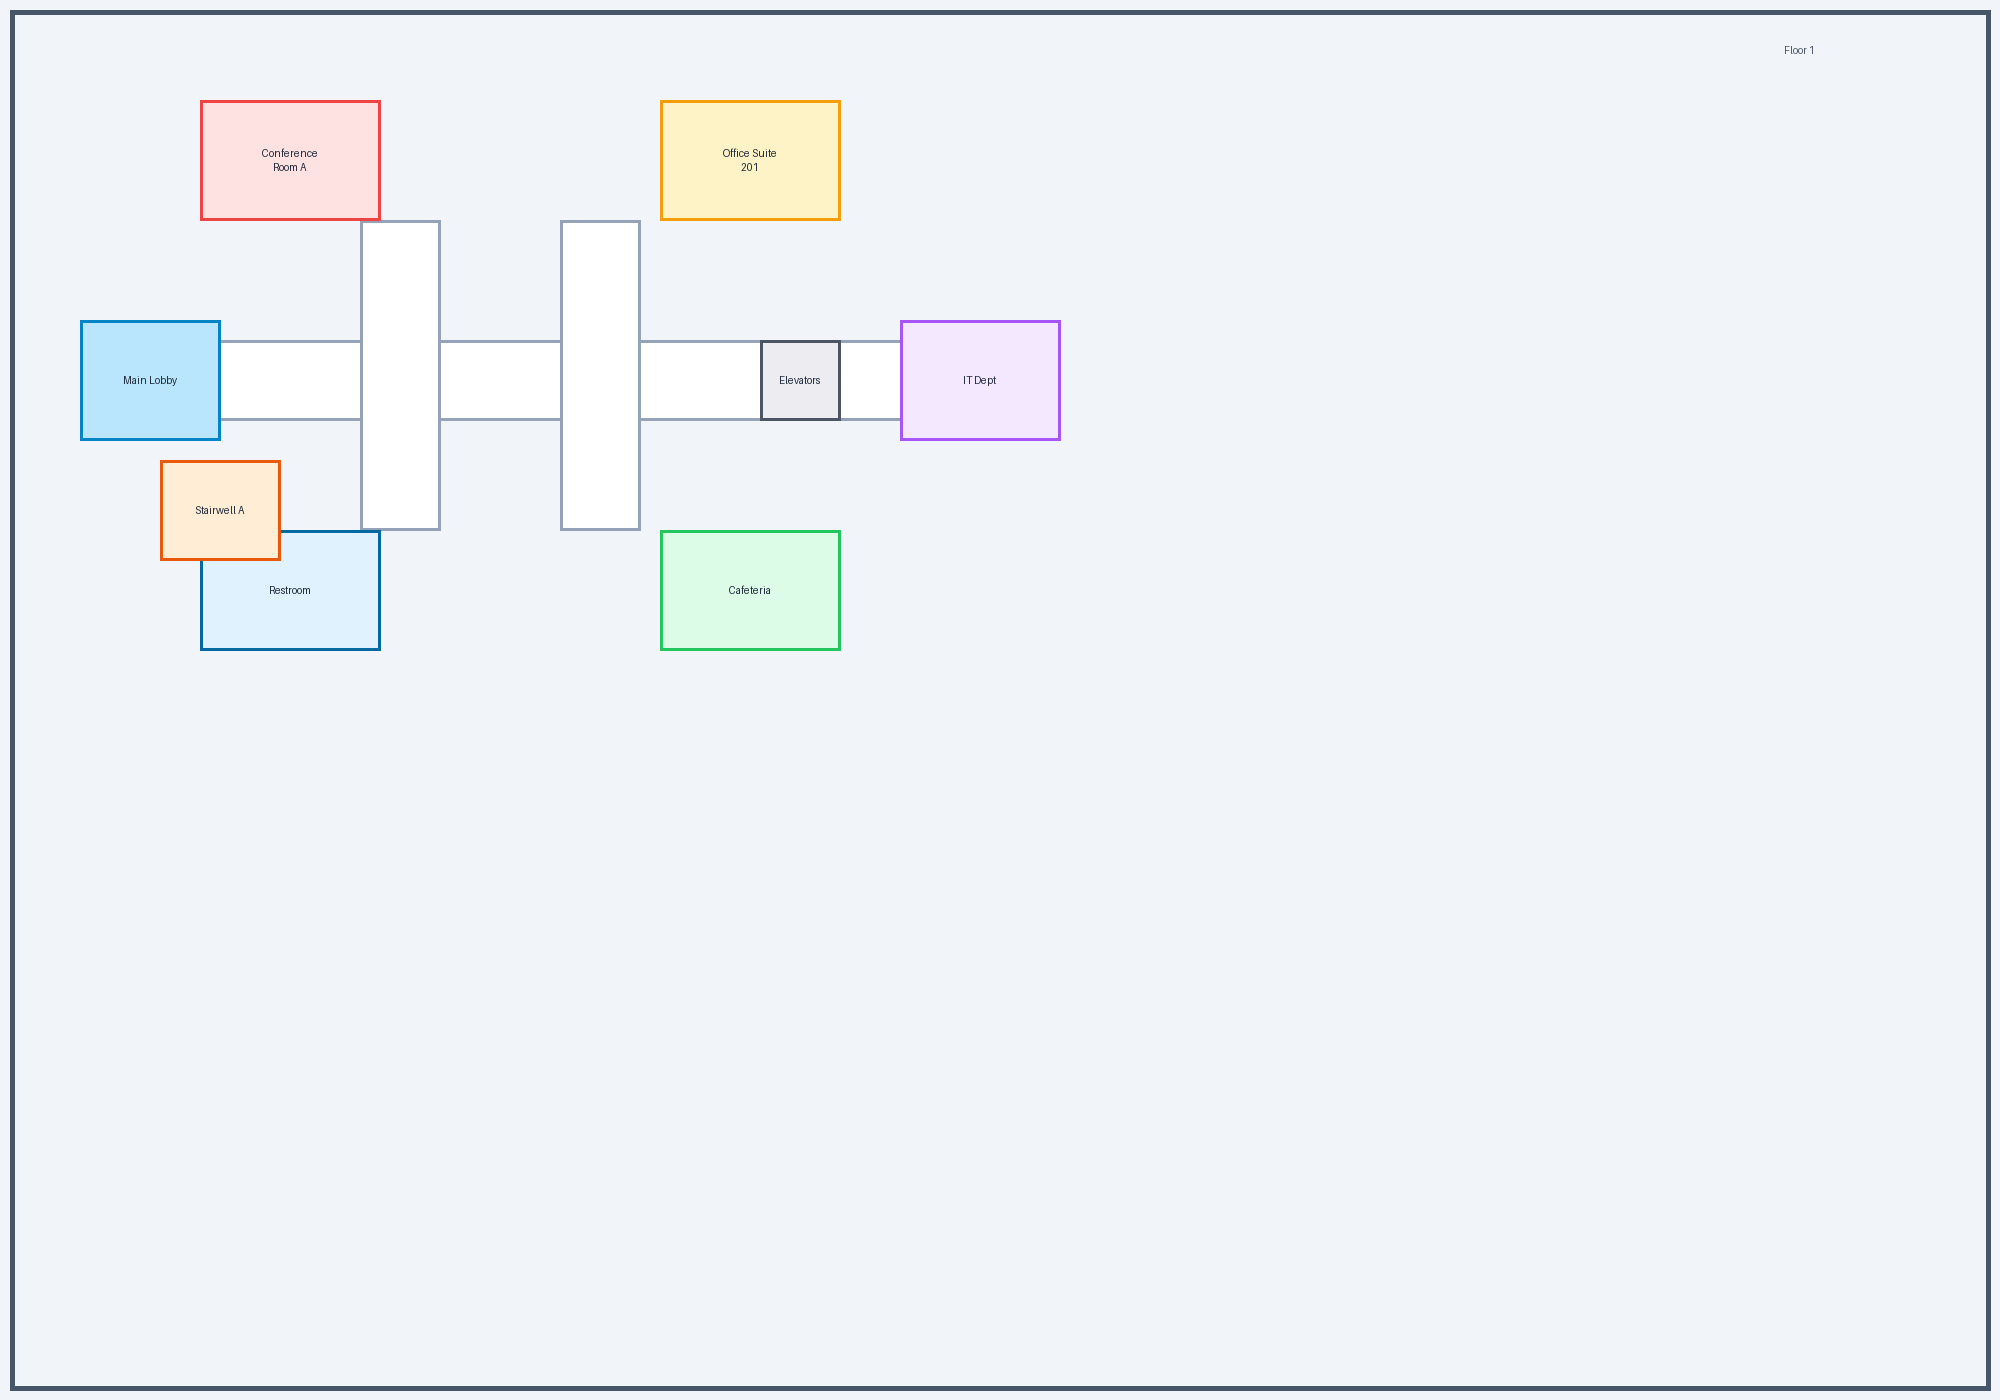
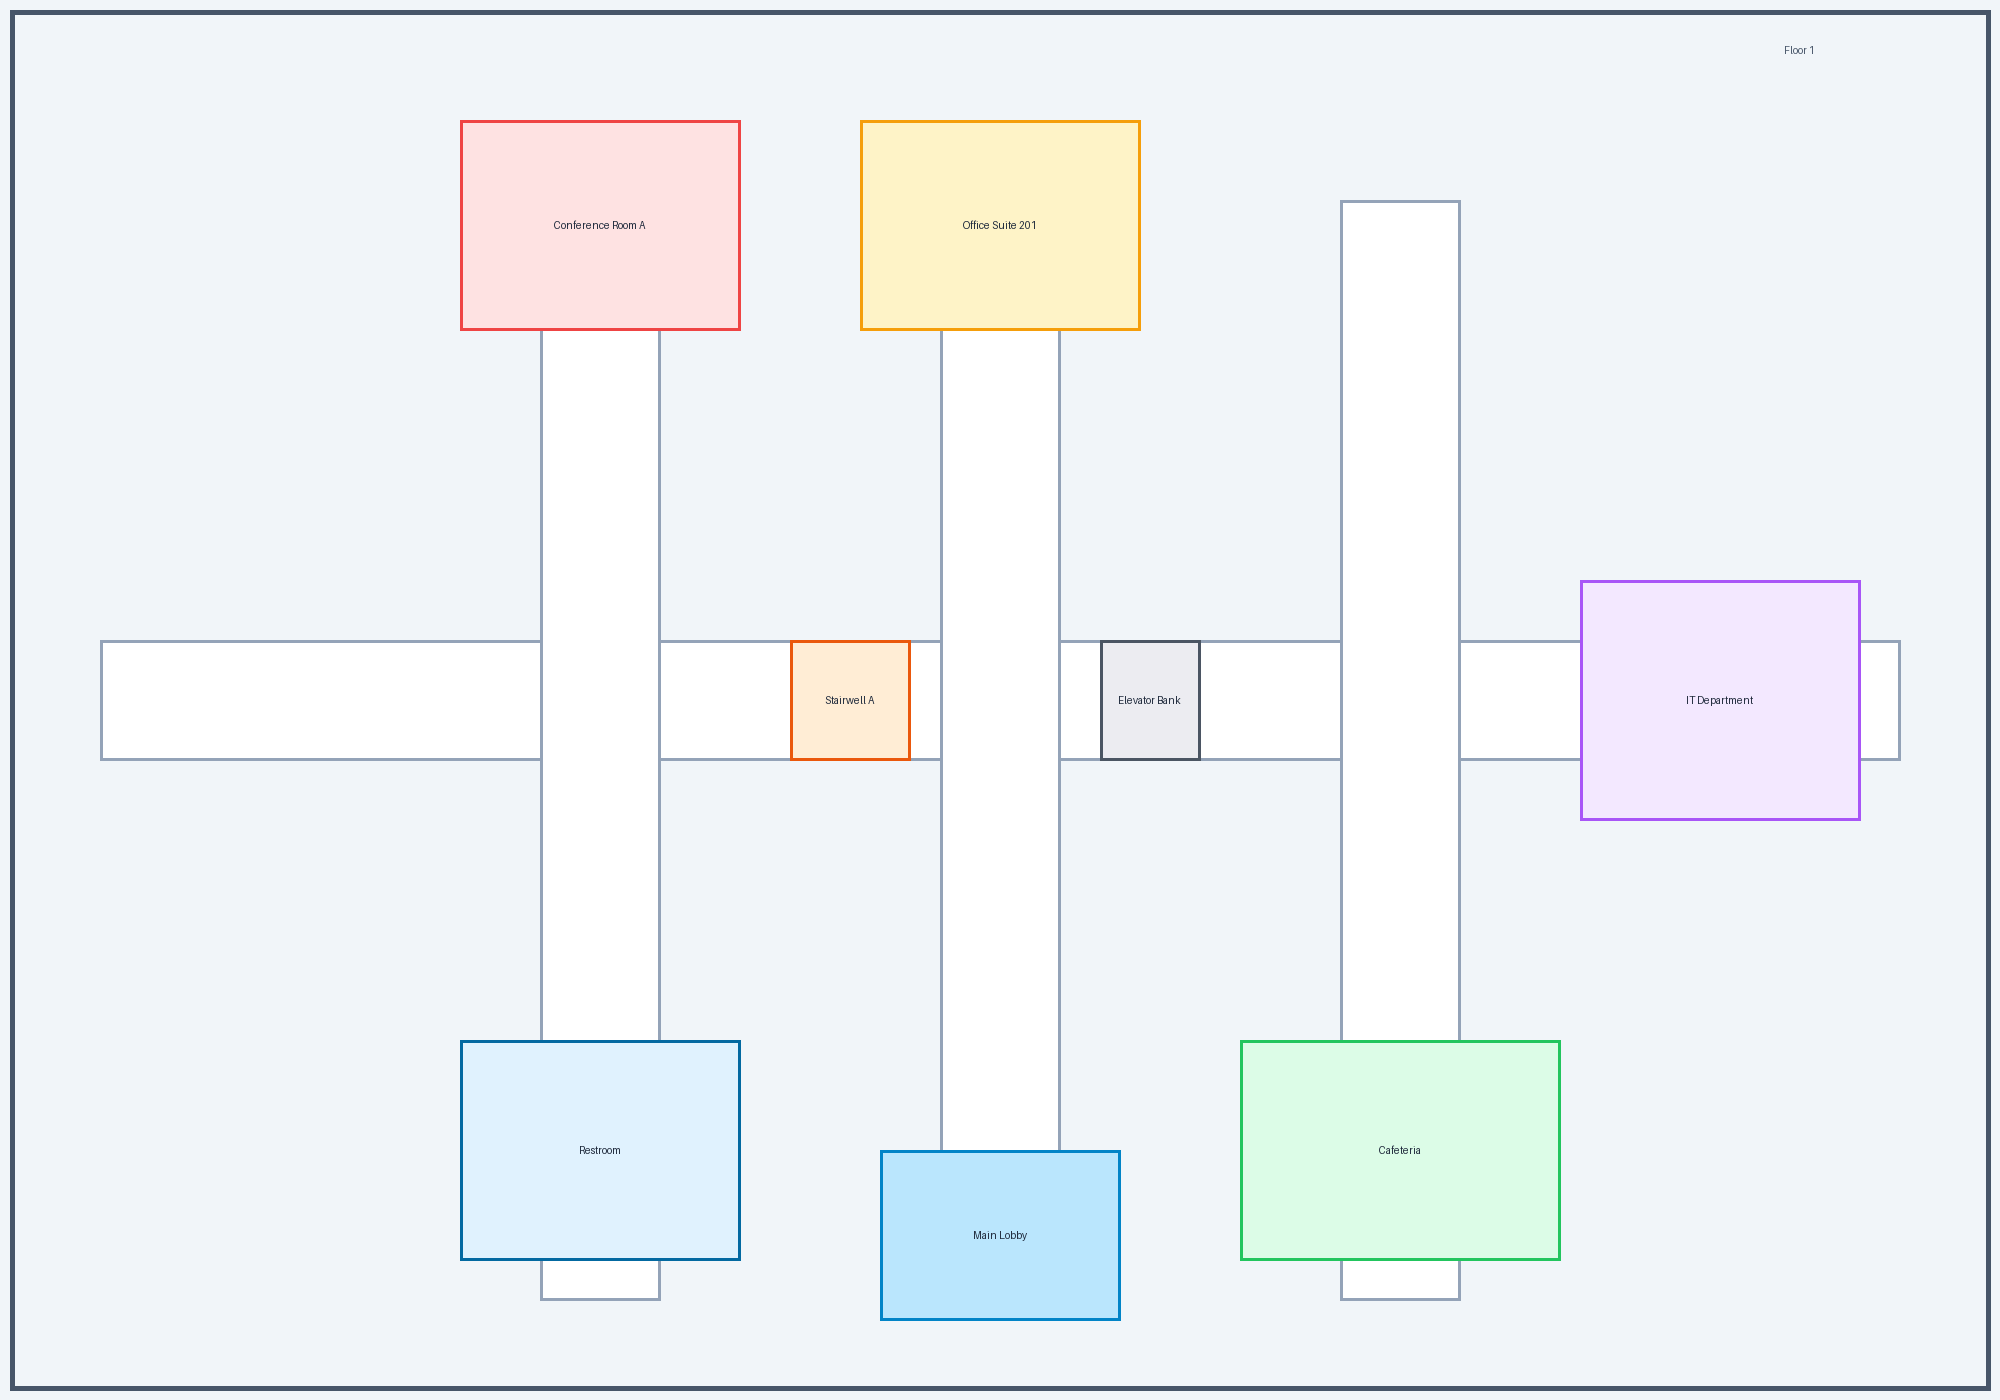
feat(svg): floormap loading via svg + geojson

diff --git a/backend/generate_floorplan.py b/backend/generate_floorplan.py
@@ -18,8 +18,9 @@ def _draw_room(draw, room, text_color):
 
 def generate_floor1():
     """Ground Floor — 2000×1400px.
-    Layout: main lobby at west, two vertical corridors, rooms on all sides.
+    Layout: main lobby center, vertical corridors, rooms on all sides.
     Connectors at east: elevator bank and stairwell.
+    Room boxes surround POI nodes as specified.
     """
     width, height = 2000, 1400
     corridor_color = "#FFFFFF"
@@ -29,25 +30,37 @@ def generate_floor1():
     img = Image.new("RGB", (width, height), "#F1F5F9")
     draw = ImageDraw.Draw(img)
 
-    # Horizontal corridor y=340-420
-    draw.rectangle([180, 340, 1020, 420], fill=corridor_color, outline=wall_color, width=3)
-    # Vertical corridor West x=360-440
-    draw.rectangle([360, 220, 440, 530], fill=corridor_color, outline=wall_color, width=3)
-    # Vertical corridor East x=560-640
-    draw.rectangle([560, 220, 640, 530], fill=corridor_color, outline=wall_color, width=3)
-    # Clean intersections
-    draw.rectangle([363, 343, 437, 417], fill=corridor_color)
-    draw.rectangle([563, 343, 637, 417], fill=corridor_color)
+    # Corridor fills
+    # Main east-west spine: y=640-760, x=100 to 1900
+    draw.rectangle([100, 640, 1900, 760], fill=corridor_color, outline=wall_color, width=3)
+    # West vertical corridor: x=540-660 (around x=600), y=200 to 1300
+    draw.rectangle([540, 200, 660, 1300], fill=corridor_color, outline=wall_color, width=3)
+    # Center vertical corridor: x=940-1060 (around x=1000), y=200 to 1300
+    draw.rectangle([940, 200, 1060, 1300], fill=corridor_color, outline=wall_color, width=3)
+    # East vertical corridor: x=1340-1460 (around x=1400), y=200 to 1300
+    draw.rectangle([1340, 200, 1460, 1300], fill=corridor_color, outline=wall_color, width=3)
+    # Clean corridor intersections with spine
+    draw.rectangle([543, 643, 657, 757], fill=corridor_color)
+    draw.rectangle([943, 643, 1057, 757], fill=corridor_color)
+    draw.rectangle([1343, 643, 1457, 757], fill=corridor_color)
 
     rooms = [
-        {"name": "Main Lobby",        "box": [80,  320, 220, 440], "color": "#BAE6FD", "border": "#0284C7"},
-        {"name": "Conference\nRoom A","box": [200, 100, 380, 220], "color": "#FEE2E2", "border": "#EF4444"},
-        {"name": "Office Suite\n201", "box": [660, 100, 840, 220], "color": "#FEF3C7", "border": "#F59E0B"},
-        {"name": "Restroom",          "box": [200, 530, 380, 650], "color": "#E0F2FE", "border": "#0369A1"},
-        {"name": "Cafeteria",         "box": [660, 530, 840, 650], "color": "#DCFCE7", "border": "#22C55E"},
-        {"name": "Stairwell A",       "box": [160, 460, 280, 560], "color": "#FFEDD5", "border": "#EA580C"},
-        {"name": "IT Dept",           "box": [900, 320, 1060, 440], "color": "#F3E8FF", "border": "#A855F7"},
-        {"name": "Elevators",         "box": [760, 340, 840, 420],  "color": "#ECECF1", "border": "#4B5563"},
+        # Main Lobby: [880,1150]–[1120,1320] - surrounds node at (1000, 1250)
+        {"name": "Main Lobby",        "box": [880, 1150, 1120, 1320], "color": "#BAE6FD", "border": "#0284C7"},
+        # Conference Room A: [460,120]–[740,330] - surrounds node at (600, 250)
+        {"name": "Conference Room A", "box": [460, 120, 740, 330], "color": "#FEE2E2", "border": "#EF4444"},
+        # Office Suite 201: [860,120]–[1140,330] - surrounds node at (1000, 250)
+        {"name": "Office Suite 201",  "box": [860, 120, 1140, 330], "color": "#FEF3C7", "border": "#F59E0B"},
+        # Restroom: [460,1040]–[740,1260] - surrounds node at (600, 1150)
+        {"name": "Restroom",          "box": [460, 1040, 740, 1260], "color": "#E0F2FE", "border": "#0369A1"},
+        # Cafeteria: [1240,1040]–[1560,1260] - surrounds node at (1400, 1150)
+        {"name": "Cafeteria",         "box": [1240, 1040, 1560, 1260], "color": "#DCFCE7", "border": "#22C55E"},
+        # IT Department: [1580,580]–[1860,820] - surrounds node at (1700, 700)
+        {"name": "IT Department",     "box": [1580, 580, 1860, 820], "color": "#F3E8FF", "border": "#A855F7"},
+        # Elevator Bank: [1100,640]–[1200,760] - surrounds node at (1150, 700)
+        {"name": "Elevator Bank",     "box": [1100, 640, 1200, 760], "color": "#ECECF1", "border": "#4B5563"},
+        # Stairwell A: [790,640]–[910,760] - surrounds node at (850, 700)
+        {"name": "Stairwell A",       "box": [790, 640, 910, 760], "color": "#FFEDD5", "border": "#EA580C"},
     ]
 
     for r in rooms:
@@ -69,40 +82,47 @@ def generate_floor2():
     Smaller footprint than ground floor; different room arrangement.
     Open-plan meeting zone, executive wing, break rooms.
     Same vertical position for elevator/stairs so connectors line up.
+    Room boxes surround POI nodes as specified.
     """
     width, height = 1200, 800
     corridor_color = "#FFFFFF"
     wall_color = "#94A3B8"
     text_color = "#1E293B"
 
-    img = Image.new("RGB", (width, height), "#EFF6FF")  # slightly different tint
+    img = Image.new("RGB", (width, height), "#EFF6FF")
     draw = ImageDraw.Draw(img)
 
-    # Main horizontal corridor  y=340-420  (same band as floor1)
-    draw.rectangle([180, 340, 900, 420], fill=corridor_color, outline=wall_color, width=3)
-    # North vertical corridor  x=380-460
-    draw.rectangle([380, 180, 460, 450], fill=corridor_color, outline=wall_color, width=3)
-    # South vertical corridor  x=560-640
-    draw.rectangle([560, 350, 640, 560], fill=corridor_color, outline=wall_color, width=3)
-    # Clean intersections
-    draw.rectangle([383, 343, 457, 417], fill=corridor_color)
-    draw.rectangle([563, 343, 637, 417], fill=corridor_color)
+    # Corridor fills
+    # Main east-west spine: y=340-420, x=60 to 1140
+    draw.rectangle([60, 340, 1140, 420], fill=corridor_color, outline=wall_color, width=3)
+    # West vertical corridor: x=320-440 (around x=380)
+    draw.rectangle([320, 40, 440, 700], fill=corridor_color, outline=wall_color, width=3)
+    # Center vertical corridor: x=540-660 (around x=600)
+    draw.rectangle([540, 40, 660, 700], fill=corridor_color, outline=wall_color, width=3)
+    # East vertical corridor: x=760-880 (around x=820)
+    draw.rectangle([760, 40, 880, 700], fill=corridor_color, outline=wall_color, width=3)
+    # Clean corridor intersections with spine
+    draw.rectangle([323, 343, 437, 417], fill=corridor_color)
+    draw.rectangle([543, 343, 657, 417], fill=corridor_color)
+    draw.rectangle([763, 343, 877, 417], fill=corridor_color)
 
     rooms = [
-        # West lobby / reception
-        {"name": "Floor 2\nReception",  "box": [60,  300, 200, 460], "color": "#C7D2FE", "border": "#4F46E5"},
-        # North wing — two meeting rooms with different sizes
-        {"name": "Meeting\nRoom B1",    "box": [200, 80,  400, 230], "color": "#FEE2E2", "border": "#EF4444"},
-        {"name": "Meeting\nRoom B2",    "box": [460, 80,  680, 220], "color": "#FEF3C7", "border": "#D97706"},
-        # South wing
-        {"name": "Break Room",          "box": [200, 490, 400, 640], "color": "#D1FAE5", "border": "#059669"},
-        {"name": "Lounge Area",         "box": [460, 490, 680, 640], "color": "#FDE68A", "border": "#D97706"},
-        # East wing — larger executive space + storage
-        {"name": "Executive\nOffice",   "box": [780, 270, 1000, 470], "color": "#E9D5FF", "border": "#7C3AED"},
-        {"name": "Storage",             "box": [780, 480, 900,  600], "color": "#F3F4F6", "border": "#6B7280"},
-        # Connectors — same X as floor 1 so arrows make sense
-        {"name": "Elevators",           "box": [760, 340, 840, 420],  "color": "#ECECF1", "border": "#4B5563"},
-        {"name": "Stairwell A",         "box": [160, 430, 280, 530], "color": "#FFEDD5", "border": "#EA580C"},
+        # Floor 2 Lobby: [60,330]–[200,470] - surrounds node at (120, 400)
+        {"name": "Floor 2 Lobby",    "box": [60, 330, 200, 470], "color": "#C7D2FE", "border": "#4F46E5"},
+        # Meeting Room B1: [250,40]–[510,180] - surrounds node at (380, 100)
+        {"name": "Meeting Room B1",  "box": [250, 40, 510, 180], "color": "#FEE2E2", "border": "#EF4444"},
+        # Meeting Room B2: [690,40]–[950,180] - surrounds node at (820, 100)
+        {"name": "Meeting Room B2",  "box": [690, 40, 950, 180], "color": "#FEF3C7", "border": "#D97706"},
+        # Break Room: [250,620]–[510,770] - surrounds node at (380, 700)
+        {"name": "Break Room",       "box": [250, 620, 510, 770], "color": "#D1FAE5", "border": "#059669"},
+        # Lounge Area: [690,620]–[950,770] - surrounds node at (820, 700)
+        {"name": "Lounge Area",      "box": [690, 620, 950, 770], "color": "#FDE68A", "border": "#D97706"},
+        # Executive Office: [960,300]–[1180,500] - surrounds node at (1080, 400)
+        {"name": "Executive Office", "box": [960, 300, 1180, 500], "color": "#E9D5FF", "border": "#7C3AED"},
+        # Elevator Bank: [640,360]–[740,440] - surrounds node at (690, 400)
+        {"name": "Elevator Bank",    "box": [640, 360, 740, 440], "color": "#ECECF1", "border": "#4B5563"},
+        # Stairwell A: [460,360]–[560,440] - surrounds node at (510, 400)
+        {"name": "Stairwell A",      "box": [460, 360, 560, 440], "color": "#FFEDD5", "border": "#EA580C"},
     ]
 
     for r in rooms:

diff --git a/backend/seed.py b/backend/seed.py
@@ -46,17 +46,17 @@ def run():
         )
         db.add(floor1)
 
-        # Floor 2 - Second Floor (1200×800 — different footprint)
+        # Floor 2 - Second Floor (2000×1400 — unified coordinate system)
         floor2 = Floor(
             id=2, building_id=1, floor_num=2,
             name="Second Floor",
             map_url="/maps/floor2.png",
             map_svg_url="/assets/floors/floor-2.svg",
-            bounds={"minX": 0, "minY": 0, "maxX": 1200, "maxY": 800},
+            bounds={"minX": 0, "minY": 0, "maxX": 2000, "maxY": 1400},
             coordinate_system="pixel",
             origin_x=0, origin_y=0, scale=1.0,
             elevation_m=3.5,
-            default_viewport={"zoom": 0, "center": [600, 400]},
+            default_viewport={"zoom": 0, "center": [1000, 700]},
             is_accessible=True
         )
         db.add(floor2)
